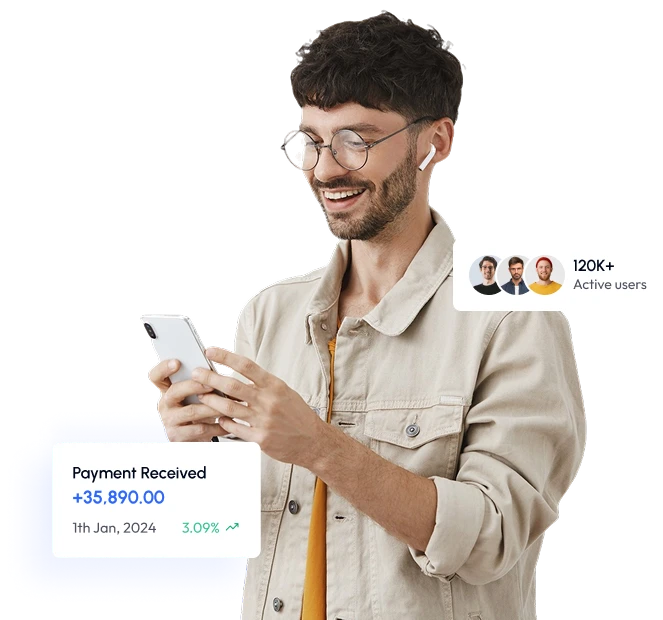
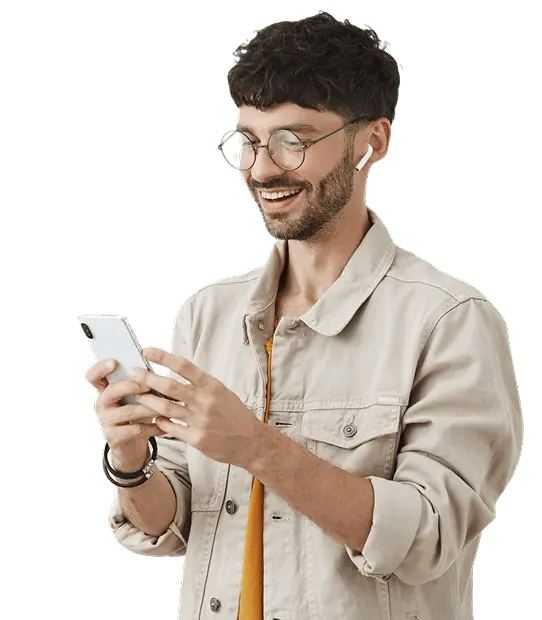
images compress

Changed region(s): [[0.0886, 0.0, 0.9742, 1.0], [0.5314, 0.0306, 0.5609, 0.0613]]

diff --git a/tailwind.config.ts b/tailwind.config.ts
@@ -23,7 +23,7 @@ export default {
     extend: {
       backgroundImage: {
         hero: "url('../public/background.svg')",
-        cta: "url('../public/cta.png')",
+        cta: "url('../public/cta.webp')",
       },
       colors: {
         background: "var(--background)",

diff --git a/app/sections/Hero.tsx b/app/sections/Hero.tsx
@@ -86,7 +86,7 @@ export function Hero() {
             <Image
               width={611}
               height={620}
-              src={"/hero-new.webp"}
+              src={"/hero.webp"}
               alt={"Hero"}
               loading="lazy"
             />
